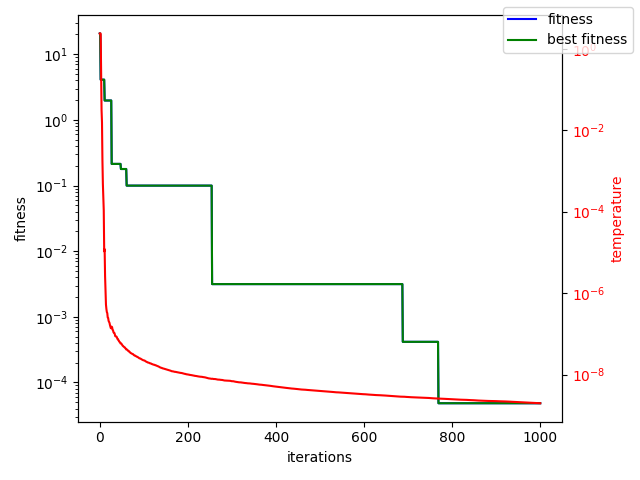
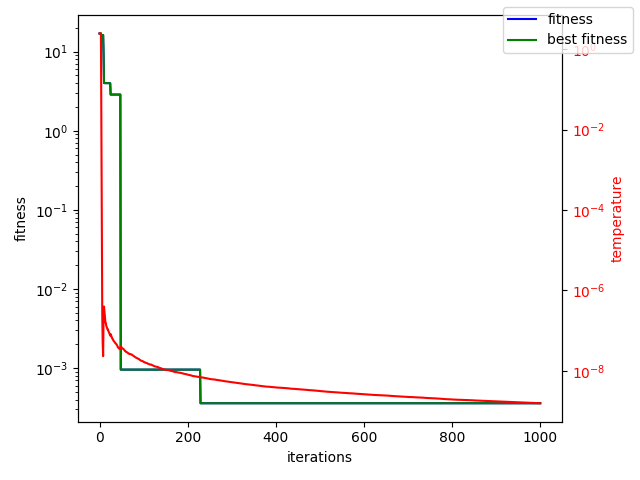
undo parameter search stuff

diff --git a/algorithms/coral_visualize.py b/algorithms/coral_visualize.py
@@ -25,7 +25,7 @@ def visualize_coral_reef_optimization(reef_evolutions, corals, empty_coral=0, fi
     ax1.set_aspect('equal')
 
     health_evolution = [np.array([[corals[coral_name].health for coral_name in coral_rows] for coral_rows in reef]) for reef in reef_evolutions]
-    print(health_evolution)
+    print("Best Coral Health: ", np.array(health_evolution).max())
     masked_array = np.ma.array (health_evolution[0], mask=np.isnan(health_evolution[0]))
     cmap = copy.copy(matplotlib.cm.get_cmap("jet"))
     cmap.set_bad('white',1.)
@@ -94,4 +94,4 @@ def test():
 
     visualize_coral_reef_optimization(reef_evolutions, corals, filename="test")
 
-test()
+# test()

diff --git a/rastrigin.py b/rastrigin.py
@@ -70,12 +70,12 @@ for n in Ns:
     """
     Thermodynamic Simulated Annealing
     """
-    print_alot = False
+    print_alot = True
     num_runs = 5
     print("-"*80)
     print("Thermodynamic Simulated Annealing")
-    high_probability_ps = [0.1, 0.2, 0.3, 0.4, 0.5, 0.6, 0.7, 0.8, 0.9]
-    k_A_ps = [0.01, 0.05, 0.1, 0.2, 0.5, 0.75, 0.9]
+    high_probability_ps = [0.8]#[0.1, 0.2, 0.3, 0.4, 0.5, 0.6, 0.7, 0.8, 0.9]
+    k_A_ps = [0.1]#[0.01, 0.05, 0.1, 0.2, 0.5, 0.75, 0.9]
     results = {}
     for high_prob in high_probability_ps:
         results_prob = {}
